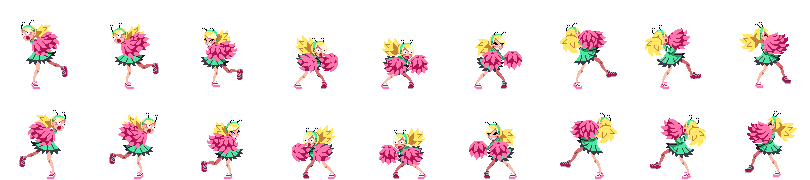
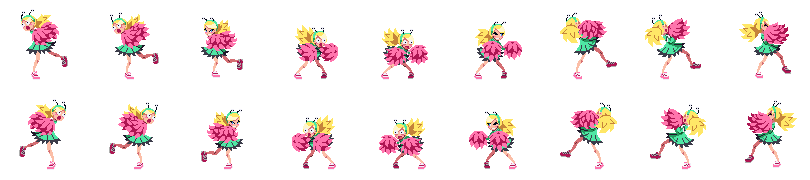
치어걸 행동패턴, 에너미 enum 패턴1개추가
STANDUP상태추가
치어걸 맞았을때 애니메이션 나오게수정

diff --git a/RiverCityGirls/enemyManager.cpp b/RiverCityGirls/enemyManager.cpp
@@ -13,16 +13,16 @@ HRESULT EnemyManager::init()
 	//_schoolBoy->init();
 	//_schoolBoy->setEnemyManager(this);
 	//_enemies.push_back(_schoolBoy);
-
+	//
 	//_schoolGirl = new SchoolGirl;
 	//_schoolGirl->init();
 	//_schoolGirl->setEnemyManager(this);
 	//_enemies.push_back(_schoolGirl);
 
-	//_cheerGirl = new CheerGirl;
-	//_cheerGirl->init();
-	//_cheerGirl->setEnemyManager(this);
-	//_enemies.push_back(_cheerGirl);
+	_cheerGirl = new CheerGirl;
+	_cheerGirl->init();
+	_cheerGirl->setEnemyManager(this);
+	_enemies.push_back(_cheerGirl);
 
 	//_boss = new Boss;
 	//_boss->init();

diff --git a/RiverCityGirls/UIManager.cpp b/RiverCityGirls/UIManager.cpp
@@ -89,6 +89,7 @@ void UIManager::update()
 
 void UIManager::render()
 {
+	/*
 	_playerInfo.render();
 	_bossInfo.render();
 	_levelInfo.render();
@@ -102,7 +103,7 @@ void UIManager::render()
 	}
 
 	_close.render(_player->getPosition());
-	
+	*/
 	/*if (_cellPhone.active)
 	{
 		_cellPhone.phoneImg->setSize(Vector2(_cellPhone.phoneImg->getWidth(), _cellPhone.height));
